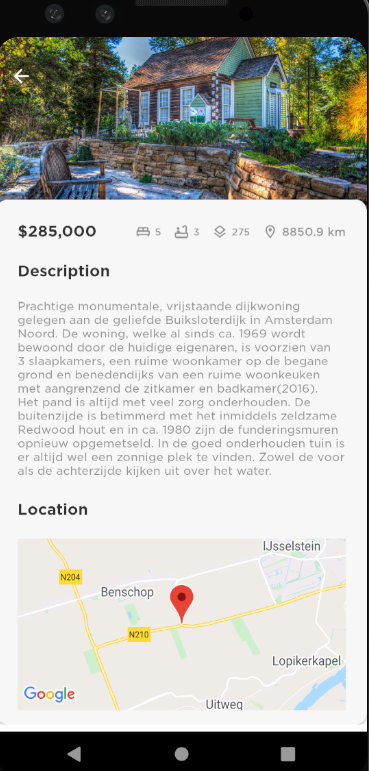
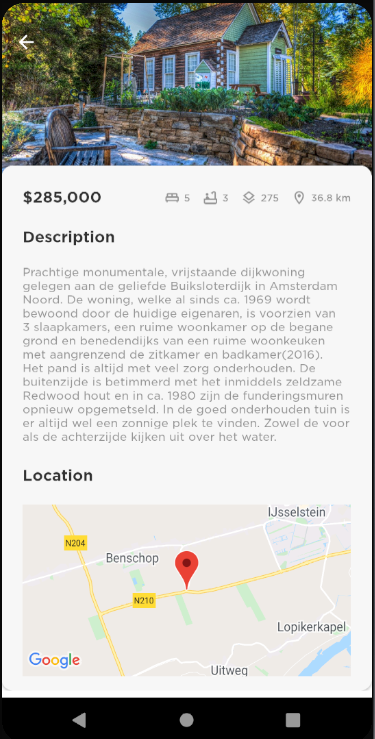
more screenshots

diff --git a/app/src/main/java/com/project/dtttest/ui/fragments/HouseDetailFragment.kt b/app/src/main/java/com/project/dtttest/ui/fragments/HouseDetailFragment.kt
@@ -81,7 +81,7 @@ class HouseDetailFragment : BaseFragment(), OnMapReadyCallback, BaseFragment.Hid
             binding.tvDistanceDetail.text = formatDistance(house.distance!!)
 
             // Keep default textSize
-            binding.tvDistanceDetail.textSize = 12.0F
+            binding.tvDistanceDetail.textSize = 10.0F
 
         } else {
 

diff --git a/README.md b/README.md
@@ -14,7 +14,19 @@ This view displays an overview of the houses with a search bar on top.
 
 ![](assets/overview.png)
 
+You can use the search bar to filter for houses by address or zip code. If no result matches, this screen is displayed.
+
+![](assets/Noresult.png)
+
 When you click on a item, you move to detailed view with a bigger picture, a description and a marker with its location in the map.
 
 ![](assets/detail.png)
+
+If you click on the map inside the detailed view you'll get redirected to Google Maps to get directions
+
+![](assets/directions.png)
+
+The other bottom navigation button is just a static view with some fictional info about the development team
+
+![](assets/info.png)
 
